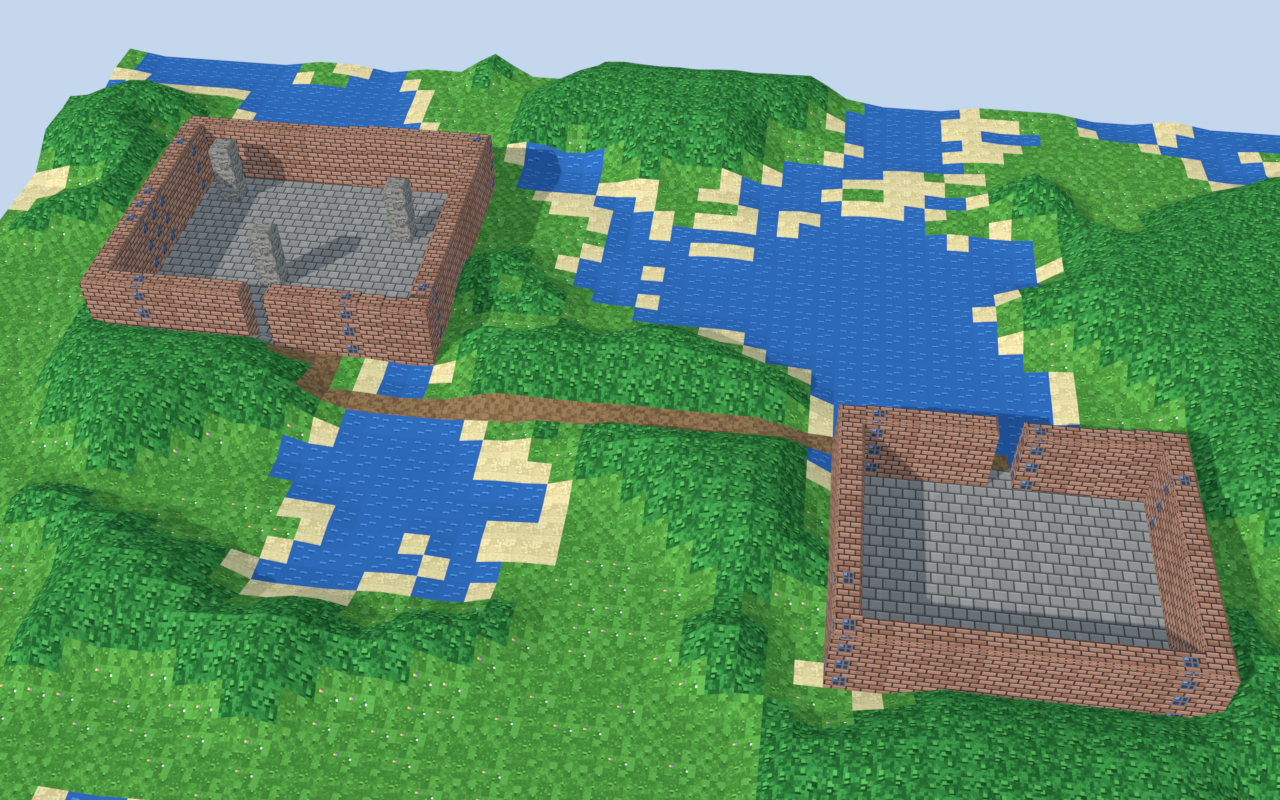
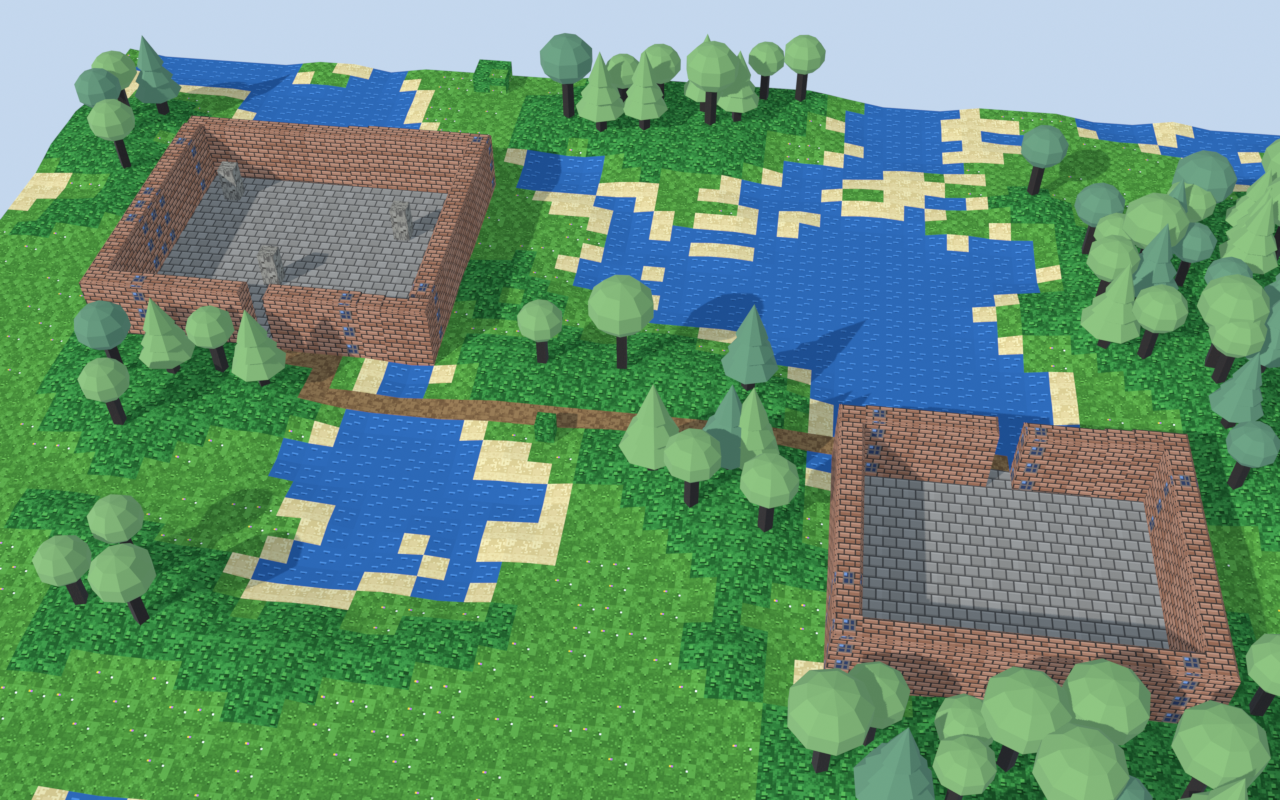
Tile map: props as separate objects, 3D trees over canopy, walk check

diff --git a/levelArchitect_v2.py b/levelArchitect_v2.py
@@ -16782,8 +16782,9 @@ def plan_from_floorplan_picture(path, plan_id="house", mpp=None, width=12.0, ext
 # height (floor flat, canopy and stone raised), and the picture itself is the texture, read with nearest filtering, so the 3D level keeps
 # the exact pixel look of the tiles. `tilemap_analyze` reads (numpy only), `_build_tilemap` builds the one mesh with walls where heights differ.
 # ==============================================================================
-PLAN_TILEMAP_DEFAULTS = dict(image=None, tile=16, tile_m=1.0, canopy=2.4, stone=3.0, water=-0.35, green=0.375, rough=22.0, roles=None, tileset=None, smooth=True)
-TILEMAP_ROLES = ("floor", "canopy", "stone", "water")
+PLAN_TILEMAP_DEFAULTS = dict(image=None, tile=16, tile_m=1.0, canopy=0.7, stone=3.0, water=-0.35, green=0.375, rough=22.0, roles=None, tileset=None, smooth=True,
+                             trees=True, tree_spacing=2.3, props=True, prop_height=1.7, prop_max=6)
+TILEMAP_ROLES = ("floor", "canopy", "stone", "water", "prop")
 
 
 def _tilemap_tileset(spec, tile):
@@ -16812,10 +16813,10 @@ def _tilemap_tileset(spec, tile):
 
 
 def tilemap_analyze(rgb, tile=16, green=0.375, rough=22.0, roles=None, lut=None):
-    """Roles of the tiles of a map picture: an int array (rows top to bottom, tile columns), 0 floor, 1 canopy, 2 stone, 3 water.
+    """Roles of the tiles of a map picture: an int array (rows top to bottom, tile columns), 0 floor, 1 canopy, 2 stone, 3 water, 4 prop (an object standing on the floor; see `_tilemap_props`).
     With a tileset (`lut`: tile pixels -> role) every tile that matches a tileset tile exactly takes that tile's role; the others (and every tile
     without a tileset) are read from colour and texture: canopy when the green share of the colour is above `green`, stone when it is not green but
-    rough (mean standard deviation of the pixels above `rough`), floor otherwise. `roles` = {"x,y": 0..3} overrides single tiles (tile column x, row y from the top)."""
+    rough (mean standard deviation of the pixels above `rough`), floor otherwise. `roles` = {"x,y": 0..4} overrides single tiles (tile column x, row y from the top)."""
     import numpy as np
     rgb = np.asarray(rgb, dtype=float)
     h, w = rgb.shape[:2]
@@ -16837,7 +16838,7 @@ def tilemap_analyze(rgb, tile=16, green=0.375, rough=22.0, roles=None, lut=None)
                     out[y, x] = code
     for key, role in (roles or {}).items():
         x, y = (int(v) for v in str(key).split(","))
-        if 0 <= x < tx and 0 <= y < ty and role in (0, 1, 2, 3):
+        if 0 <= x < tx and 0 <= y < ty and role in (0, 1, 2, 3, 4):
             out[y, x] = role
     return out
 
@@ -16866,6 +16867,72 @@ def tilemap_size(params=None):
     return (w // p["tile"]) * p["tile_m"], (h // p["tile"]) * p["tile_m"]
 
 
+def _tilemap_props(roles, p):
+    """Separates the objects from the masses: a small clump of stone tiles (or of canopy tiles = a bush) that stands alone on the floor (most of its
+    surrounding ring is floor, at most `prop_max` tiles and 3 x 3) is not a wall or a forest but a prop. Returns (roles with those tiles set to 4, list of
+    props {kind: statue|bush, tiles: [[x, y]], rect: [x0, y0, x1, y1] in tile columns/rows, inclusive})."""
+    import numpy as np
+    roles = roles.copy()
+    props = []
+    if not p.get("props", True):
+        return roles, props
+    ty, tx = roles.shape
+    for role, kind in ((2, "statue"), (1, "bush")):
+        labels, n = _fp_label(roles == role, diag=True)
+        for k in range(1, n + 1):
+            ys, xs = np.nonzero(labels == k)
+            if len(ys) > int(p["prop_max"]) or xs.max() - xs.min() > 2 or ys.max() - ys.min() > 2:
+                continue
+            ring = set()
+            for y, x in zip(ys.tolist(), xs.tolist()):
+                for dy in (-1, 0, 1):
+                    for dx in (-1, 0, 1):
+                        yy, xx = y + dy, x + dx
+                        if (dy or dx) and 0 <= yy < ty and 0 <= xx < tx and labels[yy, xx] != k:
+                            ring.add((yy, xx))
+            if ring and sum(1 for (yy, xx) in ring if roles[yy, xx] == 0) >= 0.7 * len(ring):
+                props.append({"kind": kind, "tiles": [[int(x), int(y)] for y, x in zip(ys.tolist(), xs.tolist())],
+                              "rect": [int(xs.min()), int(ys.min()), int(xs.max()), int(ys.max())]})
+    for pr in props:
+        for x, y in pr["tiles"]:
+            roles[y, x] = 4
+    return roles, props
+
+
+def _tilemap_depth(roles):
+    """Distance in tiles (4-neighbour, the map edge counts as open) from every canopy tile to the nearest tile that is not canopy; 0 elsewhere."""
+    import numpy as np
+    can = roles == 1
+    d = np.where(can, 99.0, 0.0)
+    for _ in range(6):
+        for axis, shift in ((0, 1), (0, -1), (1, 1), (1, -1)):
+            nb = np.roll(d, shift, axis)
+            if axis == 0:
+                nb[0 if shift == 1 else -1, :] = 0.0
+            else:
+                nb[:, 0 if shift == 1 else -1] = 0.0
+            d = np.where(can, np.minimum(d, nb + 1.0), 0.0)
+    return d
+
+
+def tilemap_walk_check(roles, start=None):
+    """Proves the floor can be walked: the floor tiles (role 0; canopy, stone, water and props block) are flooded from `start` ([x, y] tile) or, without
+    one, from the biggest floor region. Returns {regions, reached (share of all floor tiles in the start region), start, pockets: sizes of the other regions}."""
+    import numpy as np
+    roles = np.asarray(roles)
+    labels, n = _fp_label(roles == 0, diag=False)
+    if n == 0:
+        return {"regions": 0, "reached": 0.0, "start": None, "pockets": []}
+    sizes = np.bincount(labels.ravel())[1:]
+    if start is not None and 0 <= start[1] < roles.shape[0] and 0 <= start[0] < roles.shape[1] and labels[start[1], start[0]] > 0:
+        main = int(labels[start[1], start[0]])
+    else:
+        main = int(sizes.argmax()) + 1
+    ys, xs = np.nonzero(labels == main)
+    return {"regions": int(n), "reached": float(sizes[main - 1]) / float(sizes.sum()), "start": [int(xs[0]), int(ys[0])],
+            "pockets": sorted((int(v) for i, v in enumerate(sizes, 1) if i != main), reverse=True)}
+
+
 def _tilemap_heights(roles, p):
     """Per-tile ground height: floor 0, water a little below, canopy a rounded mound that rises over two tiles from its edge (a different
     bump per tile so a forest is not a smooth cushion). Stone tiles are built separately as walls, so the ground under them is 0."""
@@ -16875,17 +16942,7 @@ def _tilemap_heights(roles, p):
     z[roles == 3] = float(p["water"])
     can = roles == 1
     if can.any():
-        inf = 99.0
-        d = np.where(can, inf, 0.0)                               # distance (in tiles, 4-neighbour) from each canopy tile to the nearest non-canopy tile
-        d = np.where(can, inf, 0.0)
-        for _ in range(4):
-            for axis, shift in ((0, 1), (0, -1), (1, 1), (1, -1)):
-                nb = np.roll(d, shift, axis)
-                if axis == 0:
-                    nb[0 if shift == 1 else -1, :] = 0.0              # the map edge counts as open ground
-                else:
-                    nb[:, 0 if shift == 1 else -1] = 0.0
-                d = np.where(can, np.minimum(d, nb + 1.0), 0.0)
+        d = _tilemap_depth(roles)
         t = np.clip(d / 3.0, 0.0, 1.0)
         t = t * t * (3.0 - 2.0 * t)
         rng = np.random.default_rng(11)
@@ -16904,6 +16961,7 @@ def _build_tilemap(p):
     if not 4 <= tile <= 128 or not 0.1 <= tm <= 20.0:
         raise PlanError("params.tile must be 4..128 px and params.tile_m 0.1..20 m")
     roles = tilemap_analyze(rgb, tile, p["green"], p["rough"], p.get("roles"), _tilemap_tileset(p.get("tileset"), tile))
+    roles, props = _tilemap_props(roles, p)
     ty, tx = roles.shape
     if ty * tx > 90000:
         raise PlanError("the map has %d tiles (at most 90000)" % (ty * tx))
@@ -16930,6 +16988,13 @@ def _build_tilemap(p):
             y1, y0 = oy - j * tm, oy - (j + 1) * tm
             u0, u1 = i * tile / iw, (i + 1) * tile / iw
             v1, v0 = 1.0 - j * tile / ih, 1.0 - (j + 1) * tile / ih
+            if roles[j, i] == 4:                                         # a prop stands here: the ground shows a floor tile next to it, the prop is its own object
+                for dj, di in ((0, -1), (0, 1), (-1, 0), (1, 0), (-1, -1), (-1, 1), (1, -1), (1, 1)):
+                    nj, ni = j + dj, i + di
+                    if 0 <= nj < ty and 0 <= ni < tx and roles[nj, ni] == 0:
+                        u0, u1 = ni * tile / iw, (ni + 1) * tile / iw
+                        v1, v0 = 1.0 - nj * tile / ih, 1.0 - (nj + 1) * tile / ih
+                        break
             uv = [(u0, v0), (u1, v0), (u1, v1), (u0, v1)]
             stone = roles[j, i] == 2
             c = (corner[j + 1, i], corner[j + 1, i + 1], corner[j, i + 1], corner[j, i])      # sw, se, ne, nw
@@ -16968,8 +17033,19 @@ def _build_tilemap(p):
                 quad(pts, uv, False)
             quad([(x0 + W, y0 + S, zt), (x1 - E, y0 + S, zt), (x1 - E, y1 - N, zt), (x0 + W, y1 - N, zt)], uv, False)
     floor = int((roles == 0).sum())
+    trees = []
+    if p.get("trees", True) and (roles == 1).any():
+        depth = _tilemap_depth(roles)
+        rng = np.random.default_rng(23)
+        step = max(1.0, float(p["tree_spacing"]))                 # a jittered lattice in tiles; only well inside the canopy (not on its fringe)
+        for gy in np.arange(0.5, ty, step):
+            for gx in np.arange(0.5, tx, step):
+                fx, fy = gx + rng.uniform(-0.4, 0.4) * step, gy + rng.uniform(-0.4, 0.4) * step
+                ci, cj = int(fx), int(fy)
+                if 0 <= ci < tx and 0 <= cj < ty and roles[cj, ci] == 1 and depth[cj, ci] >= 1.5:
+                    trees.append([fx * tm - ox, oy - fy * tm, float(tz[cj, ci])])
     layout = {"name": "tilemap", "tile_m": tm, "tiles": [tx, ty], "floor_share": floor / float(tx * ty), "size": [tx * tm, ty * tm],
-              "roles": roles.tolist()}
+              "roles": roles.tolist(), "props": props, "trees": trees, "walk": tilemap_walk_check(roles)}
     return (verts, faces, uvs, smooth), roles, layout
 
 
@@ -17011,9 +17087,51 @@ def _plan_build_tilemap(context, node, world, seed, path):
     mesh.materials.append(_tilemap_material(bpy.path.abspath(p["image"])))
     obj = bpy.data.objects.new(mesh.name, mesh)
     context.scene.collection.objects.link(obj)
-    obj["gla_walk_layout"] = json.dumps({k: v for k, v in layout.items() if k != "roles"})
-    _plan_adopt_objects(context.scene, path, world, [obj])
-    return [obj]
+    obj["gla_walk_layout"] = json.dumps({k: v for k, v in layout.items() if k not in ("roles", "trees", "props")})
+    made = [obj]
+    mat = _tilemap_material(bpy.path.abspath(p["image"]))
+    tm, (tx, ty) = layout["tile_m"], layout["tiles"]
+    iw, ih = _tilemap_image_size(p)
+    ox, oy = tx * tm / 2.0, ty * tm / 2.0
+    for k, pr in enumerate(layout["props"]):                      # every prop is its own object (a short box carrying its sprite), ready to be swapped for a model
+        x0, y0, x1, y1 = pr["rect"]
+        inset = 0.12 * tm
+        bx0, bx1, by1, by0 = x0 * tm - ox + inset, (x1 + 1) * tm - ox - inset, oy - y0 * tm - inset, oy - (y1 + 1) * tm + inset
+        h = float(p["prop_height"]) * (0.55 if pr["kind"] == "bush" else 1.0) * tm
+        u0, u1 = x0 * p["tile"] / iw, (x1 + 1) * p["tile"] / iw
+        v1, v0 = 1.0 - y0 * p["tile"] / ih, 1.0 - (y1 + 1) * p["tile"] / ih
+        v_ = [(bx0, by0, 0), (bx1, by0, 0), (bx1, by1, 0), (bx0, by1, 0), (bx0, by0, h), (bx1, by0, h), (bx1, by1, h), (bx0, by1, h)]
+        quads = [(4, 5, 6, 7), (0, 1, 5, 4), (1, 2, 6, 5), (2, 3, 7, 6), (3, 0, 4, 7)]
+        pm = bpy.data.meshes.new("TilemapProp_%s_%03d" % (node["id"], k))
+        pm.from_pydata(v_, [], quads)
+        uvl = pm.uv_layers.new(name="UVMap")
+        uvl.data.foreach_set("uv", [c for _q in quads for uv_ in ((u0, v0), (u1, v0), (u1, v1), (u0, v1)) for c in uv_])
+        pm.update()
+        pm.materials.append(mat)
+        pobj = bpy.data.objects.new(pm.name, pm)
+        pobj["gla_prop"] = json.dumps({"kind": pr["kind"], "rect": pr["rect"]})
+        context.scene.collection.objects.link(pobj)
+        made.append(pobj)
+    if layout["trees"]:
+        wood, leaf_a, leaf_b = get_or_create_wood_material('BROWN'), get_or_create_leaf_material('GREEN'), get_or_create_leaf_material('DARK')
+        merged = _TowerMesh()
+        rng = random.Random(seed)
+        variants = {}
+        for (x, y, z) in layout["trees"]:
+            vkey = (rng.randrange(4), rng.randrange(3))
+            if vkey not in variants:
+                height = round(rng.uniform(3.4, 5.4) * tm * 2.0) / 2.0
+                variants[vkey] = _build_tree_mesh({"height": height, "crown": 'ROUND' if vkey[1] != 2 else 'CONE', "leaf": 'GREEN'}, seed + vkey[0] * 7 + vkey[1])
+            merged.append(variants[vkey], rot=rng.uniform(0.0, 6.28), offset=(x, y, z - 0.05),
+                          mat_map={WOOD_SOURCE_SLOT: 0, LEAF_SOURCE_SLOT: 1 if rng.random() < 0.65 else 2})
+        tmesh = merged.to_mesh("TilemapTrees_" + node["id"])
+        for m_ in (wood, leaf_a, leaf_b):
+            tmesh.materials.append(m_)
+        tobj = bpy.data.objects.new(tmesh.name, tmesh)
+        context.scene.collection.objects.link(tobj)
+        made.append(tobj)
+    _plan_adopt_objects(context.scene, path, world, made)
+    return made
 
 
 def plan_from_tilemap_picture(path, plan_id="tilemap", tile=16, tile_m=1.0, **extra):

diff --git a/tests/blender_headless_test.py b/tests/blender_headless_test.py
@@ -5730,6 +5730,20 @@ _mp = _np2.zeros((64, 64, 3)); _mp[:] = (30, 200, 30); _mp[16:48, 16:48] = (200,
 _rl = addon.tilemap_analyze(_mp, 16, lut=_lut)
 check("Tile map: a tileset gives the roles by exact tile match (green here is floor, not canopy)", (_rl[1:3, 1:3] == 3).all() and (_rl[0] == 0).all() and (_rl[:, 0] == 0).all(), str(_rl.tolist()))
 
+# props and the walk check: a lone rough tile on the floor is a prop (statue), a long rough wall is stone; a wall across the floor makes two regions
+_pm = _np2.zeros((160, 160, 3)); _pm[:] = (104, 104, 88)
+_pm[48:64, 48:64] = _tm_rng.integers(40, 200, (16, 16, 3))               # a lone rough tile at column 3, row 3
+_pm[:, 112:128] = _tm_rng.integers(40, 200, (160, 16, 3))                 # a wall across the whole map at column 7
+_pr, _props = addon._tilemap_props(addon.tilemap_analyze(_pm, 16), {"props": True, "prop_max": 6})
+check("Tile map: a lone rough tile on the floor is a prop, the long wall stays stone", len(_props) == 1 and _props[0]["rect"] == [3, 3, 3, 3] and _pr[3, 3] == 4 and (_pr[:, 7] == 2).all(), str(_props))
+_wk = addon.tilemap_walk_check(_pr)
+check("Tile map: the walk check finds the wall splits the floor in two regions and the props block", _wk["regions"] == 2 and 0.5 < _wk["reached"] < 1.0 and len(_wk["pockets"]) == 1, str(_wk))
+check("Tile map: the walk check from a start tile reaches that side", addon.tilemap_walk_check(_pr, [9, 5])["reached"] < 0.5)
+_forest = _np2.zeros((16 * 14, 16 * 14, 3)); _forest[:] = (88, 136, 104)
+_forest[:16 * 4] = (104, 104, 88)
+_fm = addon.tilemap_analyze(_forest, 16)
+_fl = addon._build_tilemap({**addon.PLAN_TILEMAP_DEFAULTS, "image": _tm_path})[2]                      # a normal map still builds with trees off the fringe
+check("Tile map: a layout carries props, trees and the walk check", all(k in _fl for k in ("props", "trees", "walk")))
 for bad in ({"image": None}, {"image": _tm_path, "tile": 2}):
     try:
         addon.plan_build(bpy.context, addon.plan_node("tm_bad", "building", "tilemap", params=bad))

diff --git a/docs/PLAN_FORMAT.md b/docs/PLAN_FORMAT.md
@@ -58,7 +58,7 @@ Generated buildings add their own anchors (their doors) back into the data, so l
 | building / tower | `radius`, `height`, `wall`, `door`, `door_angle`, `windows`, `interior`, `stair_width`, `rail`, `lights`, `props`, `battlements`, `ruin`, `brick_color` |
 | building / terrace_city | `tiers` (2-7), `peaks` (1-2, two summits joined by a viaduct), `flights` (most flights up to one terrace, 1-3), `irregular` (0-1: cut corners, bays, off-centre terraces), `shapes` (`mixed`, `rect`, `round`, `polygon`), `palace` (`dome` or `castle`), `ruins`, `fountains`, `village` (share of village-generator houses and huts), `waterfalls`, `walls` (crenellated wall with towers and a gate), `width`, `depth` (m; 0 = the smallest that fits the tiers and peaks), `rise` (m per tier, 2-6), `density` (houses, 0-1), `bushes`, `trees`, `interiors` (0-1, furnished rooms), `lights`, `roof_color`; the node's `style` gives the mesh that pack's wall, trim, roof and wood (medieval = grey stone). One mesh with eight materials (wall, trim, roof, wood, leaf, water, cobbled paving that every style keeps for the floors, gold), a hinged `..._Panel_NNN` object per door leaf, a point light per room; the walk layout is stored on the mesh as `gla_walk_layout` |
 | building / floor_plan | `floors` (a list, one dict per storey: `walls` [[x0, y0, x1, y1]], `windows` [[x0, y0, x1, y1, kind]] (`window`/`wide`/`garage`), `doors` [[x0, y0, x1, y1, hinge_x, hinge_y]], `slab`, `entrance` [x, y]; metres, y up, middle of the house at the origin) — made by the **House from Floor-Plan Picture** button or `floorplan_trace(image)`; `heights` (storey heights 2.2-6 m), `stairs` [{`floor`, `x`, `y`, `dir` (`+x`/`-x`/`+y`/`-y`), `width`}], `roof`, `lights`, `glass`. Walls as boxes, window/door openings with sills and lintels, a hinged `..._Panel_NNN` leaf per door, floor and roof slabs; `floor_plan_walk_check(layout)` walks it from the entrance. |
-| building / tilemap | `image` (path of the map picture), `tile` (px, 4-128, default 16), `tile_m` (metres per tile, default 1), `canopy` / `stone` / `water` (heights: canopy mound 2.4, stone wall 3.0, water -0.35), `smooth` (default true: mounds and sloping banks), `tileset` {`image`, `json`} (exact tile match; roles floor / canopy / stone / water), `green` (green share above which a tile is canopy, 0.375), `rough` (texture roughness above which a non-green tile is stone, 22), `roles` {"x,y": 0 floor / 1 canopy / 2 stone / 3 water} to override single tiles — one mesh textured with the picture (nearest filtering), walls where heights differ; made by the **Level from Tile Map** button or `plan_from_tilemap_picture` |
+| building / tilemap | `image` (path of the map picture), `tile` (px, 4-128, default 16), `tile_m` (metres per tile, default 1), `canopy` / `stone` / `water` (heights: canopy mound 2.4, stone wall 3.0, water -0.35), `smooth` (default true: mounds and sloping banks), `trees` (3D trees over canopy, default true) with `tree_spacing` (tiles, 2.3), `props` (default true) with `prop_height` (1.7 tiles) and `prop_max` (6 tiles), role 4 = prop, `tileset` {`image`, `json`} (exact tile match; roles floor / canopy / stone / water), `green` (green share above which a tile is canopy, 0.375), `rough` (texture roughness above which a non-green tile is stone, 22), `roles` {"x,y": 0 floor / 1 canopy / 2 stone / 3 water} to override single tiles — one mesh textured with the picture (nearest filtering), walls where heights differ; made by the **Level from Tile Map** button or `plan_from_tilemap_picture` |
 | building / rock_city | `levels` (2-8), `width` (60-220), `rise` (5.5-8), `depth` (12-30), `density`, `trees`, `interiors`, `lights`, `road`, `curve` (0-1, how much the terrace walls bow), `caves` (0-1), `rock` (`SAND`/`GREY`/`RED`). A city carved into a mountain: ledges, carved facades with rooms behind and door leaves (`..._Panel_NNN`), stairs, a serpentine road, boulders, procedural rock materials; walk layout on the mesh as `gla_walk_layout`. |
 | building / swan_castle | `floors` (3-10), `floor_h` (m), `width` (36-70), `depth` (24-50), `interiors`, `spires`, `shuffle` (hall themes in a seeded order), `roof_pitch` (0.6-1.4), `turret_r` (2-4), `top` (`dome`/`spire`/`lantern`), `lights`, `roof_color`; the node's `style` gives the wall, trim, roof and wood. One mesh with eight materials (wall, trim, roof, wood, leaf, water, paving, gold), a hinged `..._Panel_NNN` object per front-door leaf, point lights; the walk layout is stored on the mesh as `gla_walk_layout`. In `terrace_city`, `params.palace = "castle"` builds it on the first summit |
 | building / mansion | `plan` (`"bearwood"`, `"random"` — a generated plan from `plan_shape` (`bar`/`L`/`U`/`T`/`O`/`random`), `plan_seed`, `floors` (1-3), `wing` (16-70 m), `depth` (7-10 m) — or a dict: `heights`, `rooms` [{name, floor, rect, kind, circ, tall}], `towers`, `entrances`, `extra_doors`, `roofs`), `interiors`, `lights`, `roof_color`; the node's `style` gives the wall, trim, roof and wood. One mesh with eight materials, a hinged `..._Panel_NNN` object per door leaf, point lights; the walk layout is stored on the mesh as `gla_walk_layout`. `mansion_size(params)` is the footprint |

diff --git a/CHANGELOG.md b/CHANGELOG.md
@@ -5,7 +5,7 @@ reproduced exactly from its settings (see **Debug: Last Generation Params** in t
 
 ## Unreleased — terrain: look, relief, water and ground cover; tile maps
 
-- **Level from a tile map** (`tilemap` building, **Level from Tile Map...** button): a picture of a whole level made of square tiles (as in 16-bit action games) becomes a 3D level. Every tile gets a role from its colour and texture — floor, canopy (green mass) or stone (grey, rough) — `tilemap_analyze`, numpy only; single tiles can be overridden with `roles: {"x,y": 0|1|2}`. Floor stays flat, canopy and stone are raised (`canopy`, `stone` heights), walls are built where heights differ, and the picture itself is the texture with nearest filtering, so the pixel look is kept. `tile` (px) and `tile_m` (metres per tile) set the scale. **Tilesets and a modern look**: a `tileset` (sheet + roles JSON) matches map tiles exactly and adds a fourth role, **water**; the ground is one smooth surface (canopy swells into rounded mounds, banks slope into water), stone tiles are walls in tile-high bands with a bevelled top (`smooth: false` for plain blocks). `tools/make_tileset.py` draws an original 16-px tileset and a demo map. Limits: objects on the map (statues, pipes) read as raised masses, no walk check yet. The tool works with any tile map picture; none from a commercial game is shipped.
+- **Level from a tile map** (`tilemap` building, **Level from Tile Map...** button): a picture of a whole level made of square tiles (as in 16-bit action games) becomes a 3D level. Every tile gets a role from its colour and texture — floor, canopy (green mass) or stone (grey, rough) — `tilemap_analyze`, numpy only; single tiles can be overridden with `roles: {"x,y": 0|1|2}`. Floor stays flat, canopy and stone are raised (`canopy`, `stone` heights), walls are built where heights differ, and the picture itself is the texture with nearest filtering, so the pixel look is kept. `tile` (px) and `tile_m` (metres per tile) set the scale. **Tilesets and a modern look**: a `tileset` (sheet + roles JSON) matches map tiles exactly and adds a fourth role, **water**; the ground is one smooth surface (canopy swells into rounded mounds, banks slope into water), stone tiles are walls in tile-high bands with a bevelled top (`smooth: false` for plain blocks). `tools/make_tileset.py` draws an original 16-px tileset and a demo map. **Objects, trees, walk check**: a small clump of stone tiles standing alone on the floor (≤ `prop_max` tiles, ≤ 3 x 3) is a **prop** (role 4, `statue`), a small canopy clump is a `bush`; each prop is its own object (a short box carrying its sprite, `gla_prop` = {kind, rect}) with a floor tile showing under it, ready to be swapped for a model. **Canopy becomes real 3D trees** (`trees`, `tree_spacing`): round and cone trees on a jittered lattice well inside the forest, the canopy ground only a low mound (`canopy` 0.7). `tilemap_walk_check(roles)` floods the floor (canopy, stone, water and props block) from a start tile or the biggest region and reports regions, the reached share and the pockets. Limits: colour decides the roles without a tileset (green machinery reads as forest), no game export yet. The tool works with any tile map picture; none from a commercial game is shipped.
 - **Rapids**: a river's bed steepness (0-9) rides in the whole part of the ribbon's u; the river shader turns steep stretches into white water across the whole width.
 - **Ground cover**: scatter kinds `grass` (tufts of blades, up to 900/ha) and `flower` (five colours) in meadow, forest, tundra, mountain and island biomes (capped at 6000 per kind); rules may carry `wet` (0-1) so trees prefer low, damp ground near water.
 - **Water**: lakes are a sheet only over the wet grid cells with a baked `depth` attribute, shaded from turquoise shallows to deep blue with growing opacity, shore foam and ripples (`LA_Lake`); rivers get edge foam and flow streaks from their ribbon UVs (`LA_River`). Shader only.

diff --git a/docs/USER_GUIDE.md b/docs/USER_GUIDE.md
@@ -307,7 +307,8 @@ For a house with several floors choose the ground floor and list the pictures of
 
 Press **Level from Tile Map...** in the Plans panel and choose a picture of a whole level drawn from square tiles (the kind of map 16-bit action games used). Set **Tile size (px)** (usually 16) and **Tile size (m)**, then press **Build**.
 Each tile gets a role from its colour and texture: **floor** (flat), **green mass** (raised, for foliage) or **rough grey mass** (raised, for stone walls and machinery). The picture itself is the texture, read pixel-sharp, so the 3D level keeps the look of the tiles.
-In a plan, `params.roles` = `{"x,y": 0|1|2}` overrides single tiles, and `params.green` / `params.rough` move the thresholds (green share of the colour 0.375, texture roughness 22). A fourth role, **water**, sits a little lower and the ground slopes into it; green masses swell into rounded mounds (`params.smooth: false` makes everything flat-topped blocks).
+In a plan, `params.roles` = `{"x,y": 0|1|2}` overrides single tiles, and `params.green` / `params.rough` move the thresholds (green share of the colour 0.375, texture roughness 22). **Objects and trees**: a small clump of stone tiles standing alone on the floor becomes a **prop** — its own object (custom property `gla_prop`) so it can be replaced by a model — and the forest becomes real 3D trees over a low mound (`trees: false` keeps the textured mounds only, `props: false` keeps everything as walls). The build also runs a **walk check**: floor tiles are walkable, forest, walls, water and props block; the result (regions, share reached, pockets) is stored on the mesh as `gla_walk_layout`.
+A fourth role, **water**, sits a little lower and the ground slopes into it; green masses swell into rounded mounds (`params.smooth: false` makes everything flat-topped blocks).
 With a **tileset** (`params.tileset` = `{"image": sheet.png, "json": roles.json}`; the JSON has `tile`, `cols` and a `roles` list, one of floor / canopy / stone / water per tile in sheet order) every map tile that equals a tileset tile pixel for pixel takes that tile's role; others are read from colour and texture.
 `tools/make_tileset.py` draws an original example tileset and map. The maps and tilesets of commercial games are not included; use pictures you are allowed to use.
 
